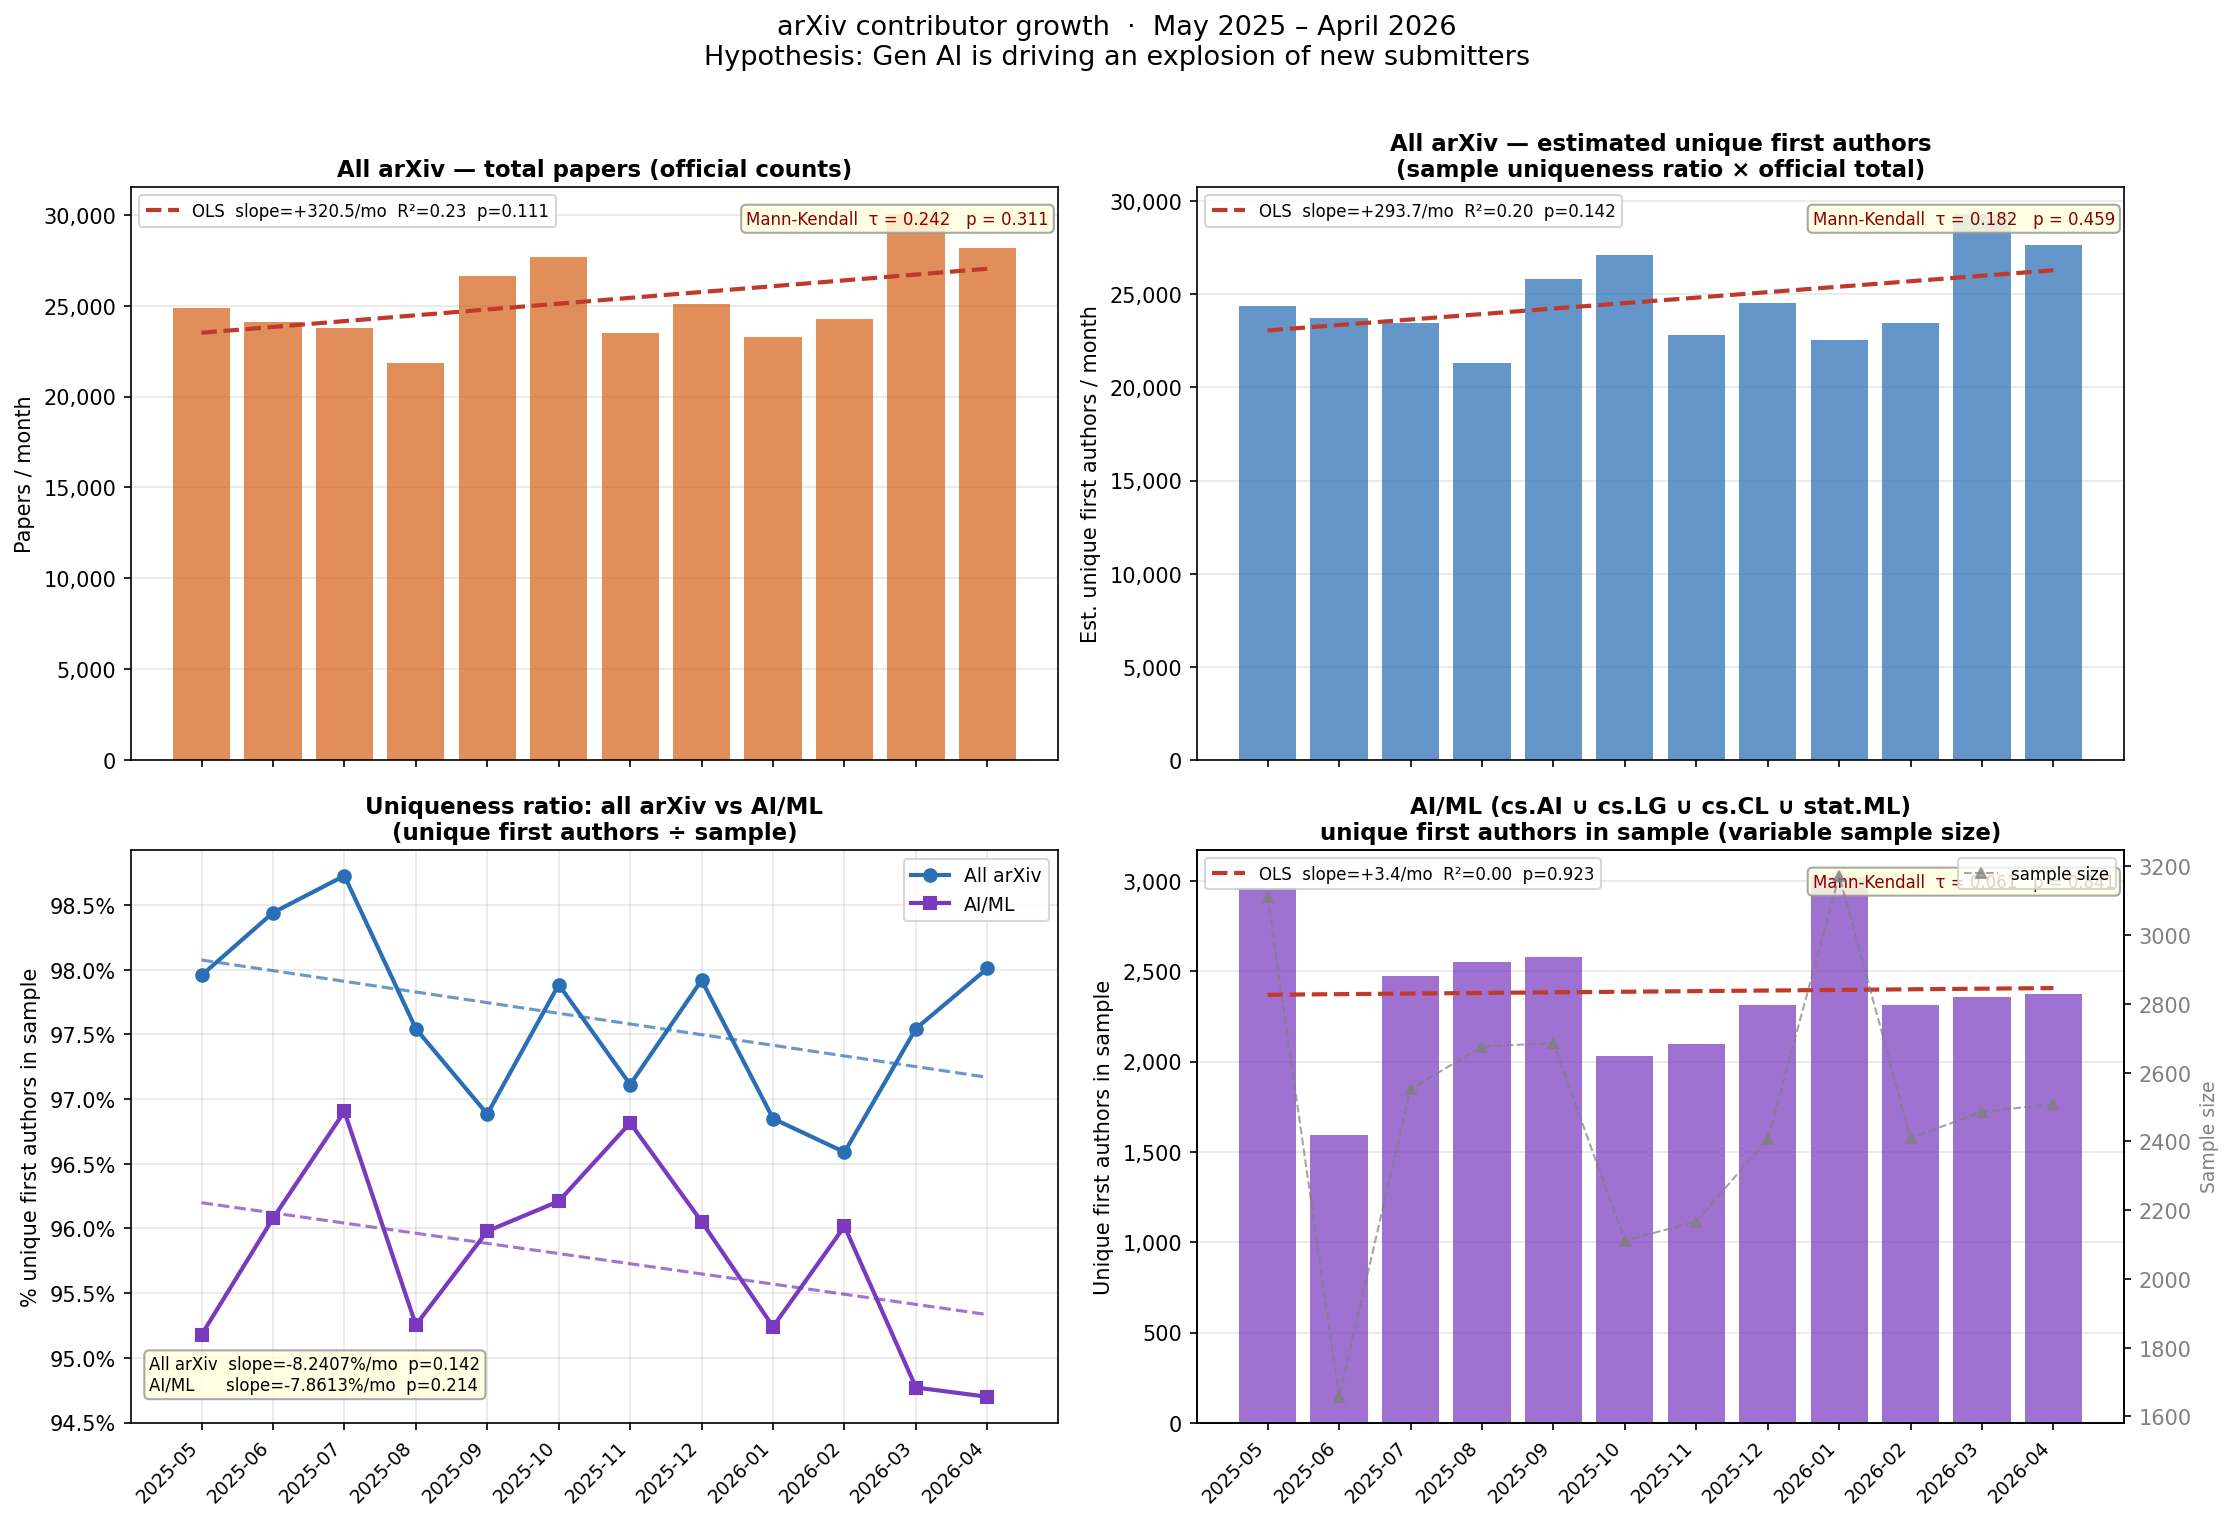
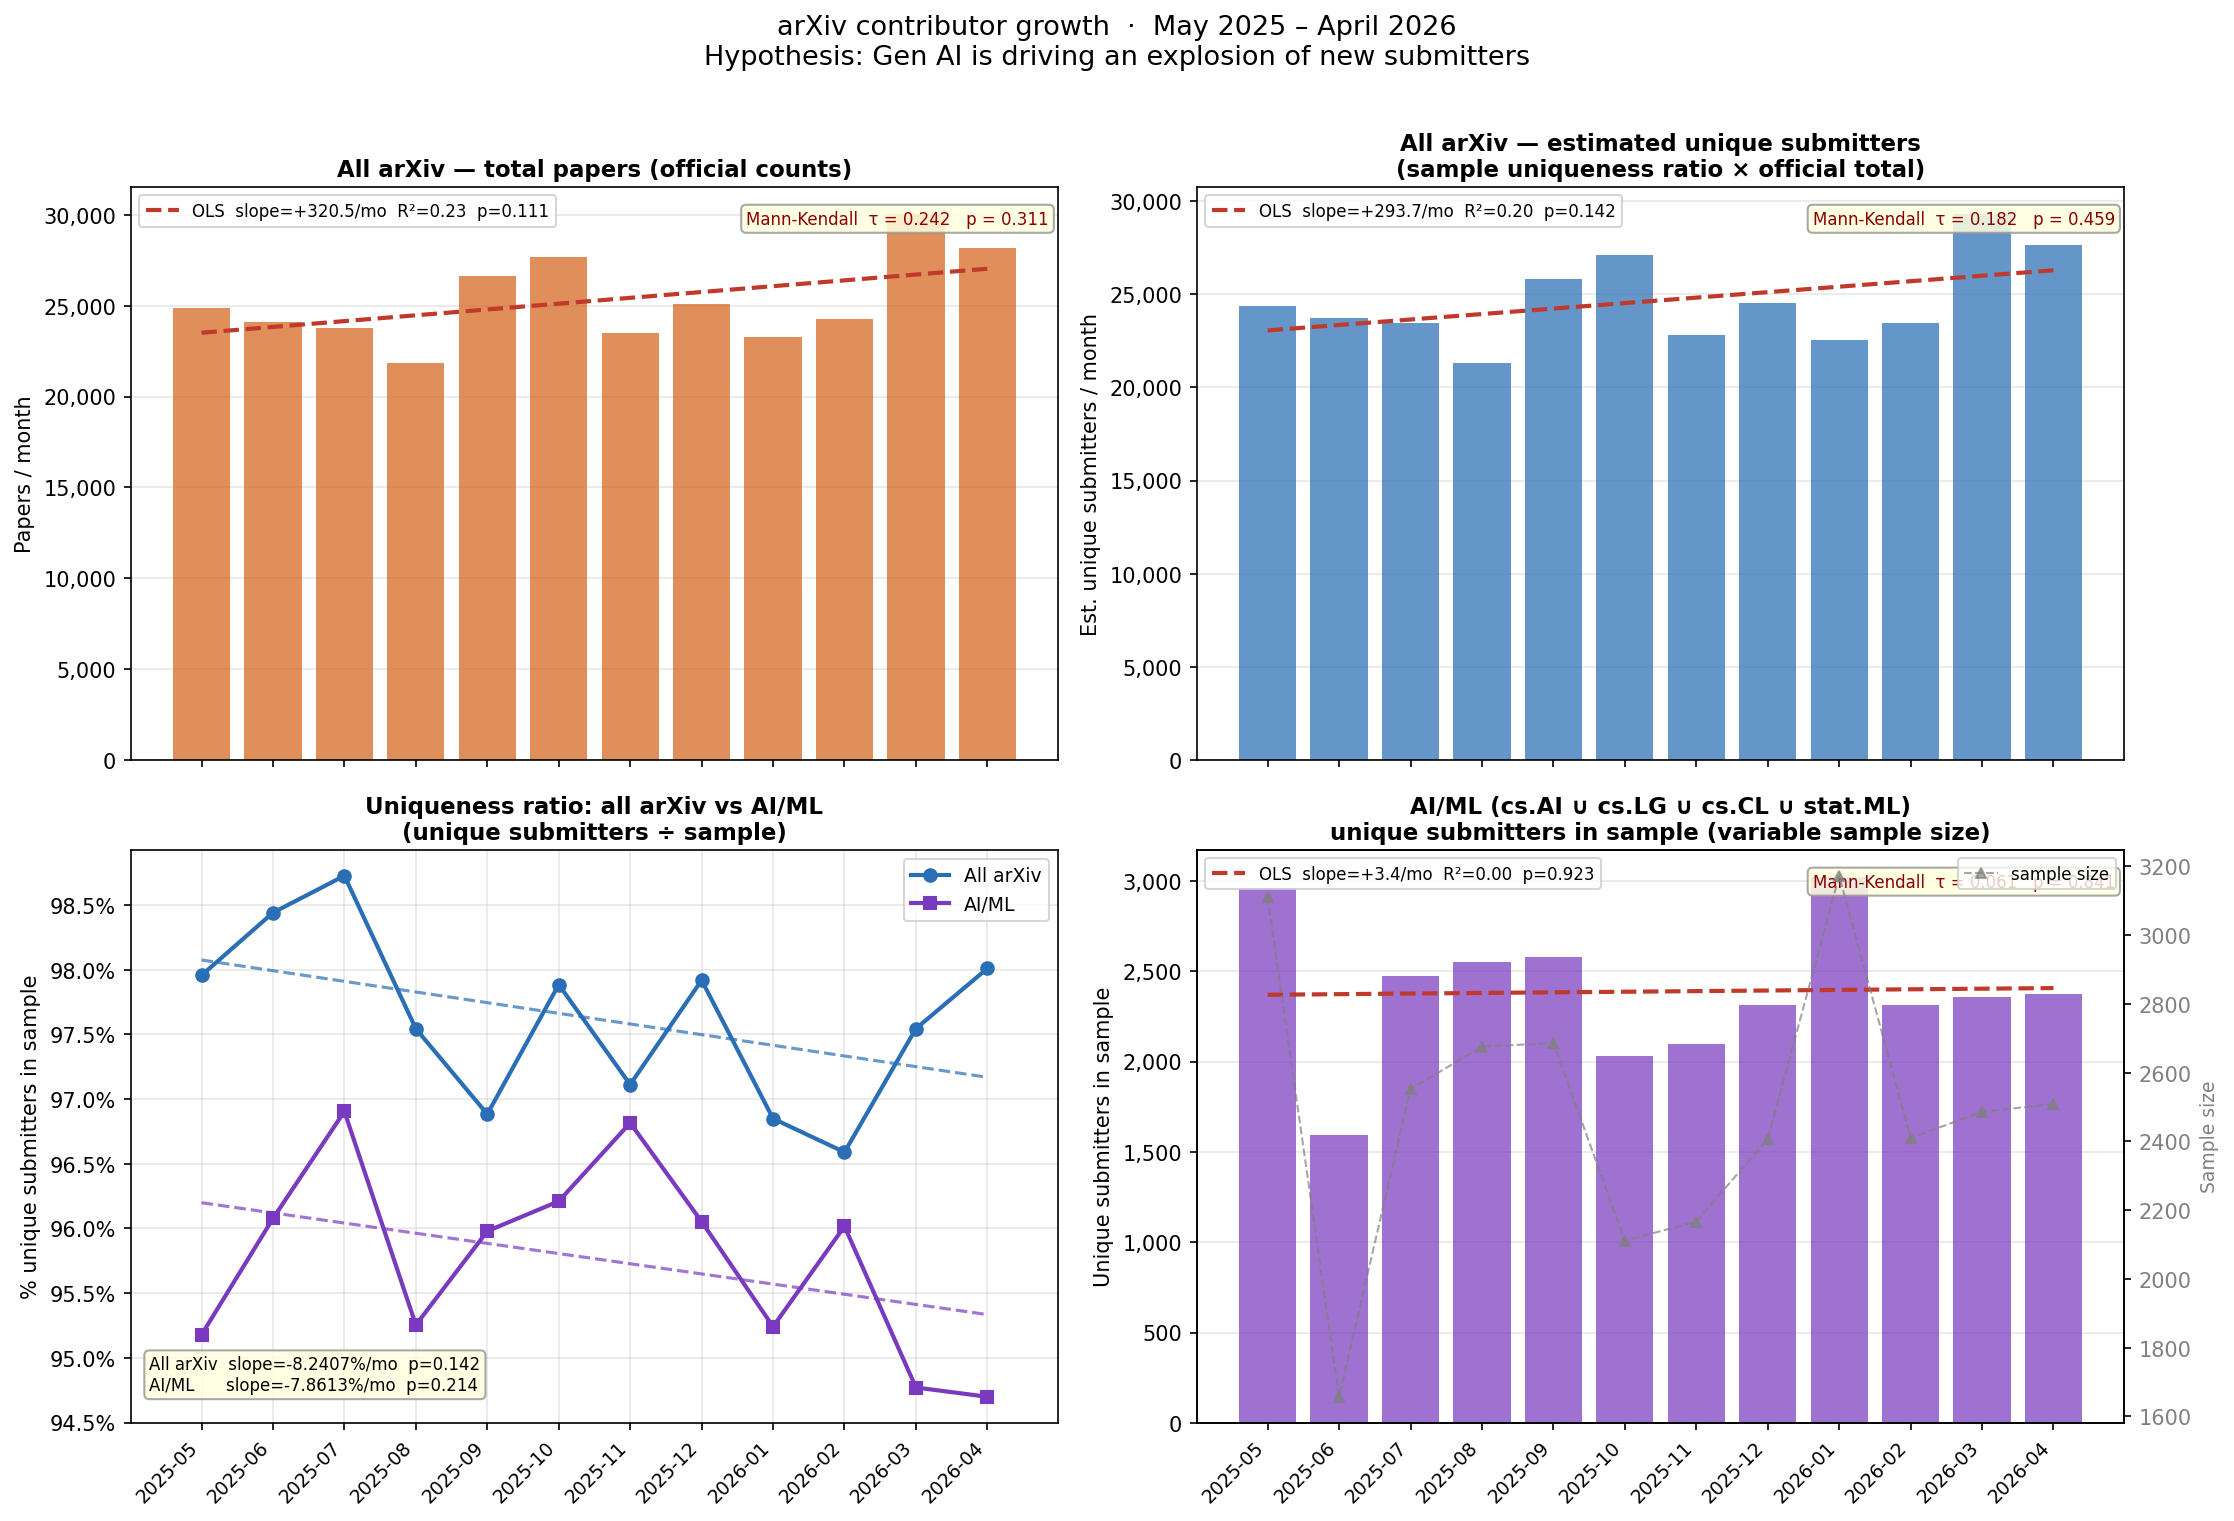
rename: unique first authors → unique submitters in figure and README
First authors are a proxy for submitters; the metric and its labels
should reflect what is being measured.

diff --git a/analyze.py b/analyze.py
@@ -95,9 +95,9 @@ def make_figure(df_all: pd.DataFrame, df_aiml: pd.DataFrame):
     _panel(axes[0, 1], x,
            df_all["est_unique"].values,
            BLUE,
-           "All arXiv — estimated unique first authors\n"
+           "All arXiv — estimated unique submitters\n"
            "(sample uniqueness ratio × official total)",
-           "Est. unique first authors / month",
+           "Est. unique submitters / month",
            stat_dict(df_all["est_unique"].values))
 
     # ── Panel C: uniqueness ratio comparison ─────────────────────────────────
@@ -107,9 +107,9 @@ def make_figure(df_all: pd.DataFrame, df_aiml: pd.DataFrame):
     sd_ra = stat_dict(ratio_all);  sd_rm = stat_dict(ratio_aiml)
     ax.plot(x, sd_ra["slope"]*x + sd_ra["intercept"],  "--", color=BLUE,   lw=1.5, alpha=0.7)
     ax.plot(x, sd_rm["slope"]*x + sd_rm["intercept"],  "--", color=PURPLE, lw=1.5, alpha=0.7)
-    ax.set_ylabel("% unique first authors in sample", fontsize=10)
+    ax.set_ylabel("% unique submitters in sample", fontsize=10)
     ax.set_title("Uniqueness ratio: all arXiv vs AI/ML\n"
-                 "(unique first authors ÷ sample)", fontsize=11, fontweight="bold", pad=5)
+                 "(unique submitters ÷ sample)", fontsize=11, fontweight="bold", pad=5)
     ax.legend(fontsize=9)
     ax.grid(alpha=0.3)
     ax.yaxis.set_major_formatter(mticker.FuncFormatter(lambda v, _: f"{v:.1f}%"))
@@ -124,8 +124,8 @@ def make_figure(df_all: pd.DataFrame, df_aiml: pd.DataFrame):
     _panel(axes[1, 1], x,
            df_aiml["unique_in_sample"].values,
            PURPLE,
-           f"AI/ML ({AIML_SETS_LABEL})\nunique first authors in sample (variable sample size)",
-           "Unique first authors in sample",
+           f"AI/ML ({AIML_SETS_LABEL})\nunique submitters in sample (variable sample size)",
+           "Unique submitters in sample",
            stat_dict(df_aiml["unique_in_sample"].values.astype(float)))
     # Overlay sample-size markers
     ax2 = axes[1, 1].twinx()
@@ -311,7 +311,7 @@ def make_exhaustive_figure(dfs_exh: dict):
         sd_t = stat_dict(df["total_papers"].values.astype(float))
 
         ax.bar(x, df["unique_authors"].values, color=COLORS[cat], alpha=0.72, zorder=2,
-               label="Unique first authors")
+               label="Unique submitters")
         ax.bar(x, df["total_papers"].values, color="lightgray", alpha=0.5, zorder=1,
                label="Total papers")
 
@@ -320,7 +320,7 @@ def make_exhaustive_figure(dfs_exh: dict):
                 label=(f"OLS unique  slope={sd_u['slope']:+.1f}/mo  "
                        f"R²={sd_u['r2']:.2f}  p={sd_u['p']:.3f}"))
 
-        ax.set_title(f"{cat} — exhaustive unique first authors per month",
+        ax.set_title(f"{cat} — exhaustive unique submitters per month",
                      fontsize=11, fontweight="bold")
         ax.set_ylabel("Count", fontsize=10)
         ax.legend(fontsize=8, loc="upper left")
@@ -340,7 +340,7 @@ def make_exhaustive_figure(dfs_exh: dict):
                            ha="right", fontsize=9)
 
     fig.suptitle(
-        "arXiv exhaustive unique first authors per month  ·  May 2025 – April 2026\n"
+        "arXiv exhaustive unique submitters per month  ·  May 2025 – April 2026\n"
         "cs.SE (Software Engineering) and cs.LG (Machine Learning)",
         fontsize=12, y=1.01)
     plt.tight_layout()

diff --git a/README.md b/README.md
@@ -1,6 +1,6 @@
 # arXiv contributor growth: is Gen AI causing an explosion of new submitters?
 
-**TL;DR** — In both cs.SE and cs.LG the number of unique first authors per
+**TL;DR** — In both cs.SE and cs.LG the number of unique submitters per
 month grew significantly over May 2025 – April 2026. cs.SE nearly tripled (+189%), cs.LG grew +36%.
 
 **Cite as:**
@@ -52,7 +52,7 @@ series. Significance threshold: α = 0.05.
 
 ## Results
 
-![Exhaustive unique first authors per month, cs.SE and cs.LG](figure_exhaustive.png)
+![Exhaustive unique submitters per month, cs.SE and cs.LG](figure_exhaustive.png)
 
 All numbers below come from `data_cache.json` (keys `YYYY-MM-cs.LG` and
 `YYYY-MM-cs.SE`). The statistical summaries printed by `analyze.py` are the
@@ -62,37 +62,37 @@ authoritative reference for p-values and slopes.
 ### cs.SE (Software Engineering)
 
 **12-month change:** 266 → 780 total papers (+193.2%);
-256 → 740 unique first authors (+189.1%).
+256 → 740 unique submitters (+189.1%).
 
 | Metric | OLS slope | R² | OLS p | MK τ | MK p |
 |--------|----------|----|-------|------|------|
 | Total papers | +31.7 / mo | 0.660 | **0.0013** | 0.727 | **0.0005** |
-| Unique first authors | +30.1 / mo | 0.670 | **0.0011** | 0.758 | **0.0002** |
+| Unique submitters | +30.1 / mo | 0.670 | **0.0011** | 0.758 | **0.0002** |
 
 The growth in cs.SE is **striking and highly significant** by both tests
-(MK p = 0.0002 for unique authors). cs.SE nearly triples in submission
+(MK p = 0.0002 for unique submitters). cs.SE nearly triples in submission
 volume over 12 months.
 
 ### cs.LG (Machine Learning)
 
 **12-month change:** 2,780 → 3,847 total papers (+38.4%);
-2,653 → 3,612 unique first authors (+36.1%).
+2,653 → 3,612 unique submitters (+36.1%).
 
 | Metric | OLS slope | R² | OLS p | MK τ | MK p |
 |--------|----------|----|-------|------|------|
 | Total papers | +133.6 / mo | 0.571 | **0.0045** | 0.515 | **0.021** |
-| Unique first authors | +119.7 / mo | 0.558 | **0.0052** | 0.485 | **0.031** |
+| Unique submitters | +119.7 / mo | 0.558 | **0.0052** | 0.485 | **0.031** |
 
-Both total papers and unique first authors show a **statistically significant
+Both total papers and unique submitters show a **statistically significant
 increasing trend** (OLS p < 0.01, MK p < 0.05).
 
 ## Summary
 
 The data **support the hypothesis**. Both categories show strongly
-significant upward trends in unique first authors over May 2025 – April 2026:
+significant upward trends in unique submitters over May 2025 – April 2026:
 
-- **cs.LG** grew +36% in unique first authors (OLS p = 0.005).
-- **cs.SE** grew +189% in unique first authors (OLS p = 0.001).
+- **cs.LG** grew +36% in unique submitters (OLS p = 0.005).
+- **cs.SE** grew +189% in unique submitters (OLS p = 0.001).
 
 The contrast between the two categories is itself informative. cs.LG is
 already a large, established community where growth is substantial but
@@ -118,7 +118,7 @@ submissions.
    person under different name variants is counted twice; a common name
    may merge distinct people.
 
-5. **AI productivity vs. new entrants.** Growth in unique first authors
+5. **AI productivity vs. new entrants.** Growth in unique submitters
    could still reflect a fixed pool of researchers each appearing as
    first author more often (e.g. more single-author or student-led
    papers), not necessarily researchers who are new to arXiv.
